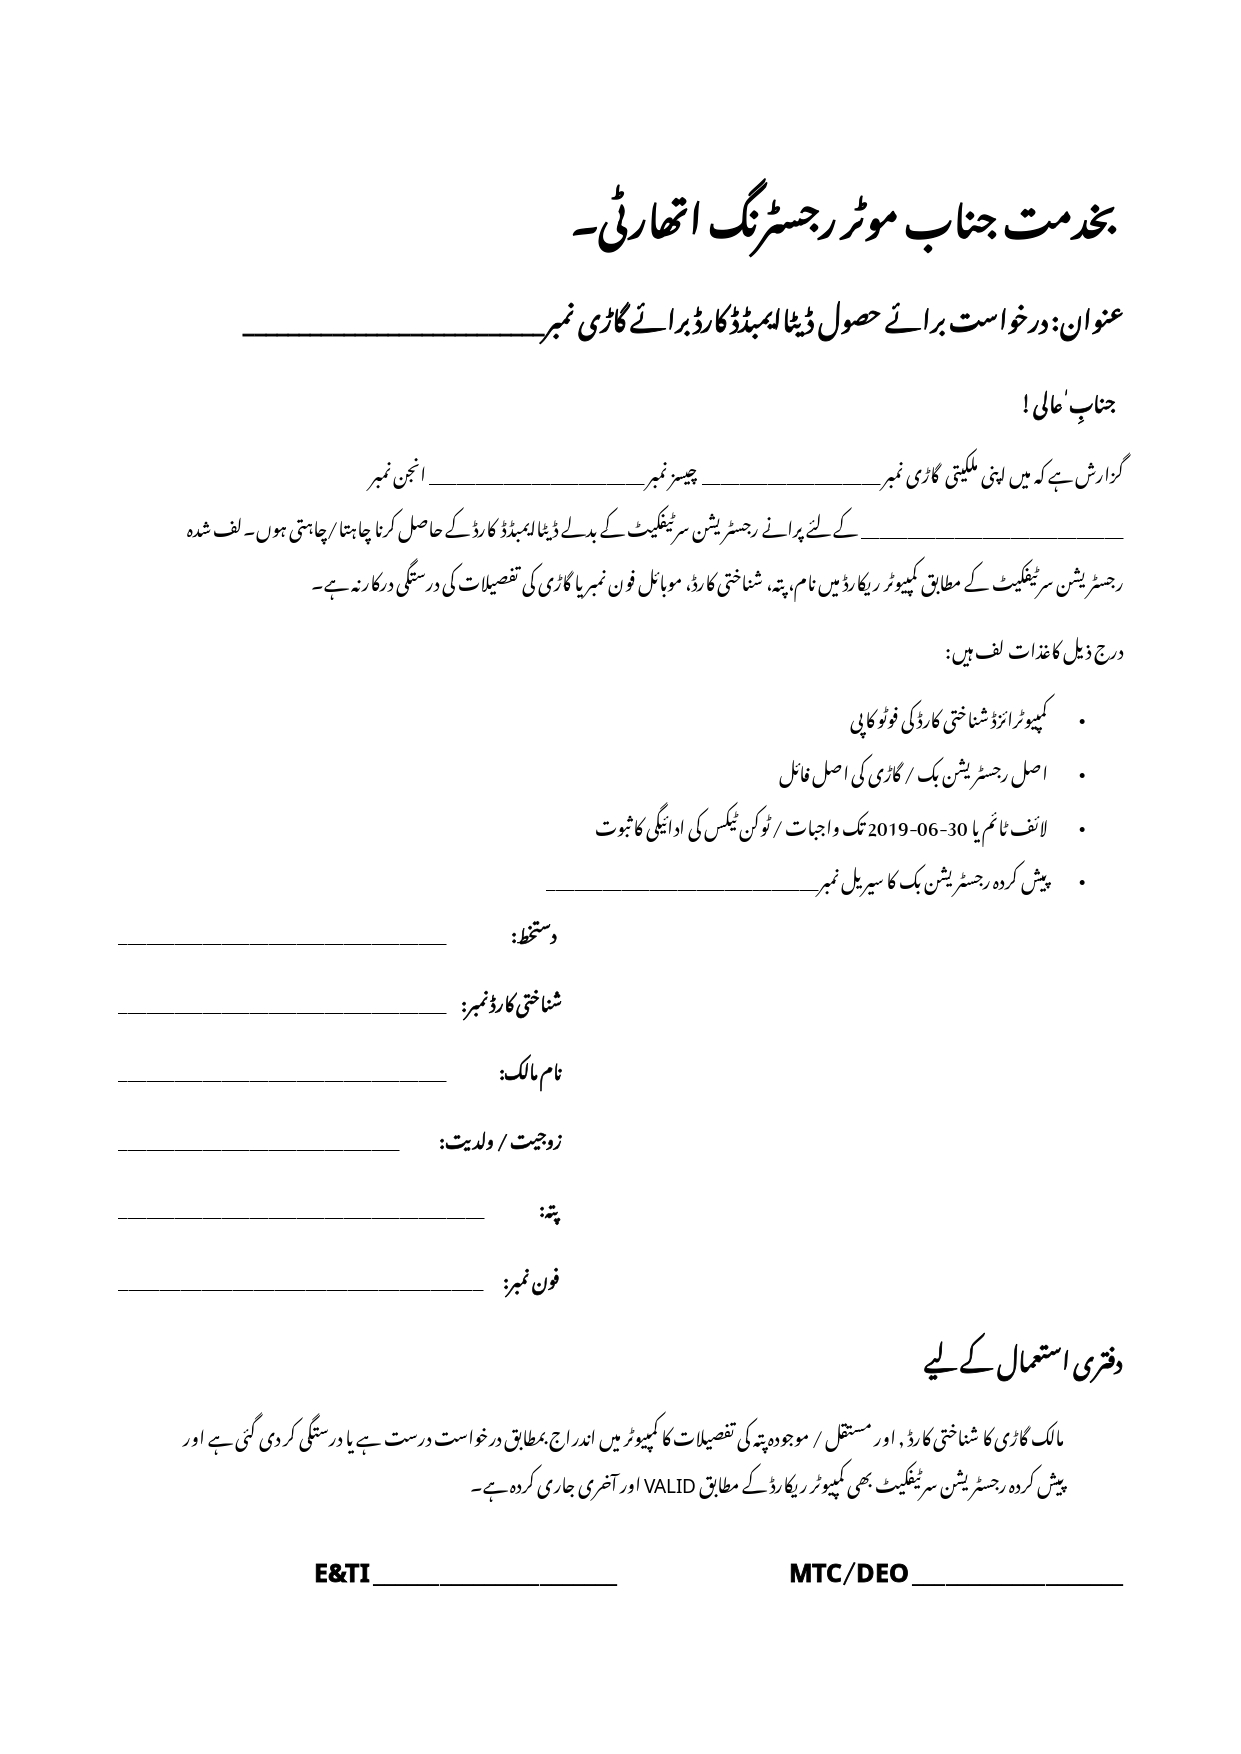
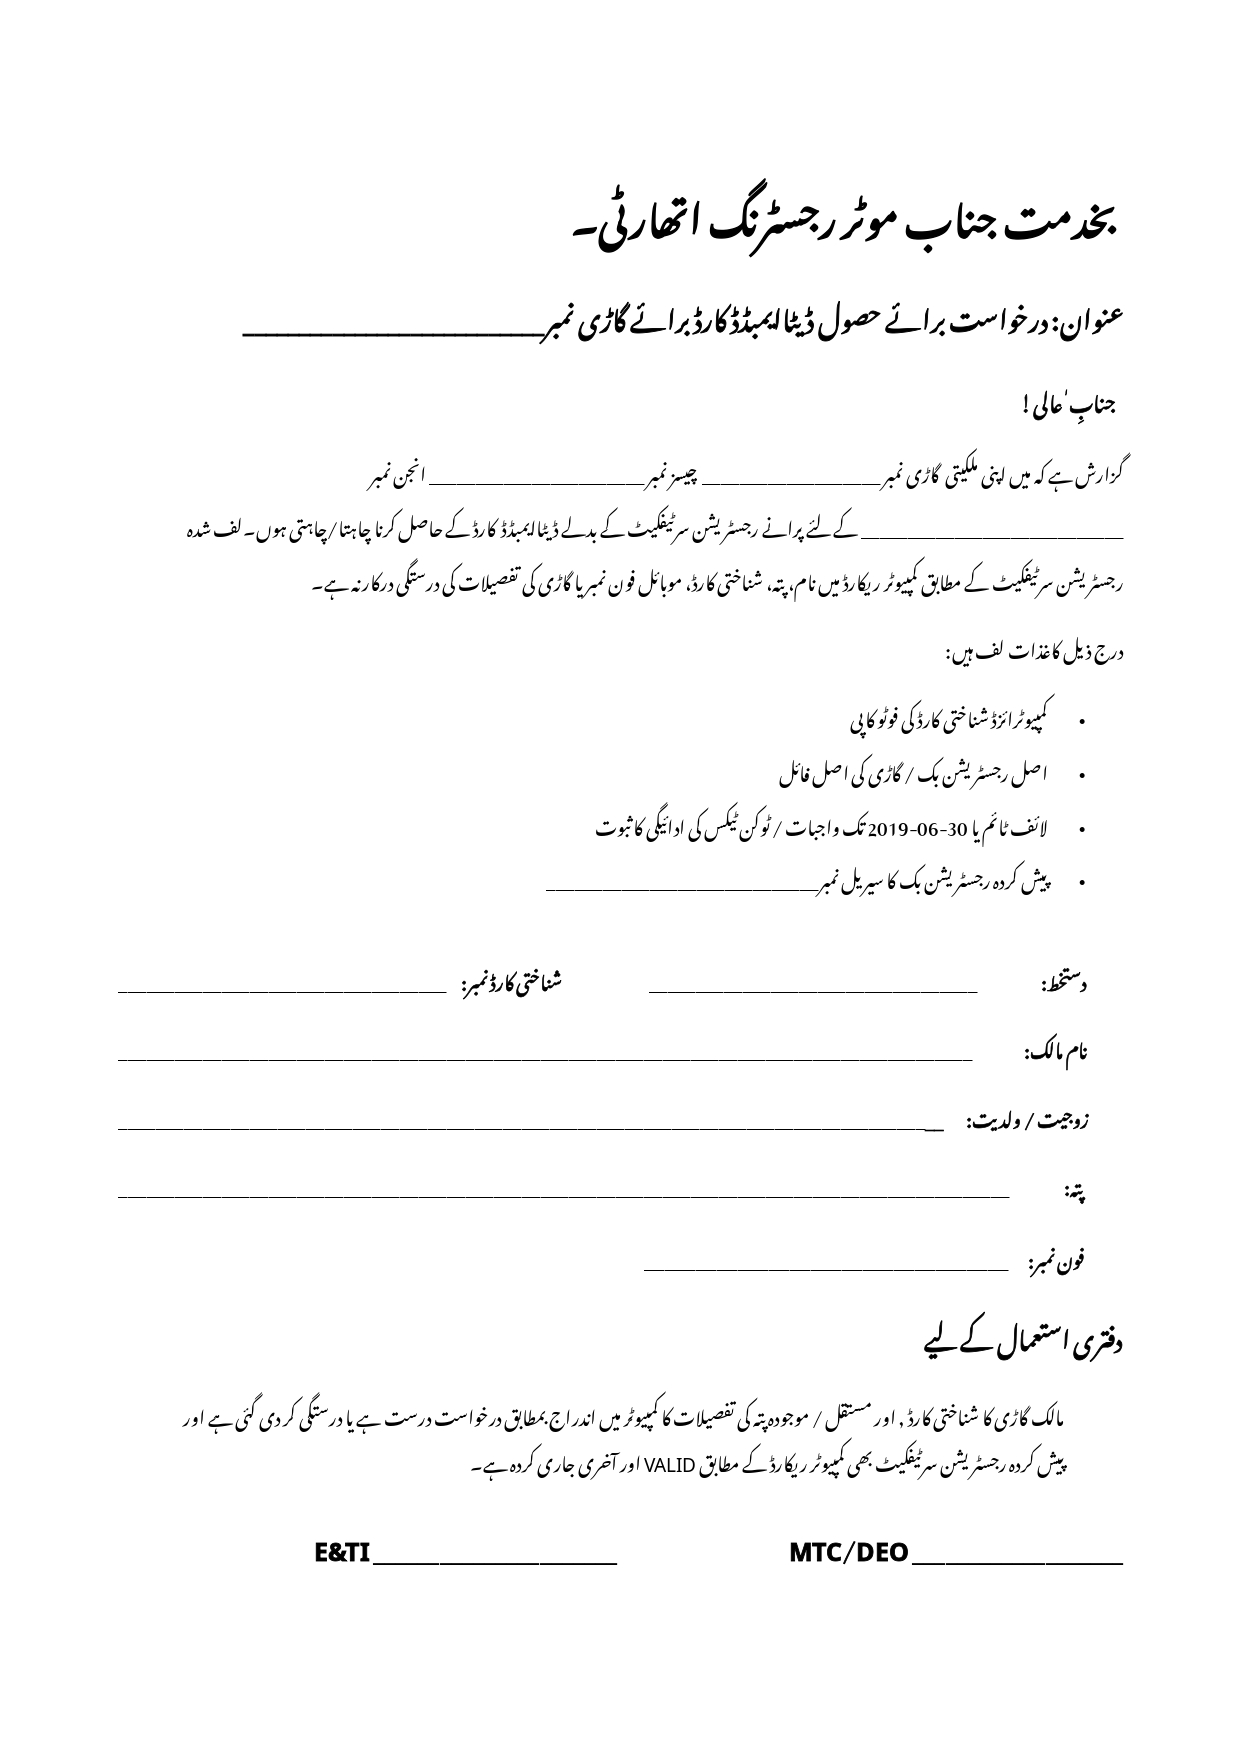
update forms fields

diff --git a/src/pages/FormToPage.jsx b/src/pages/FormToPage.jsx
@@ -10,18 +10,20 @@ const INITIAL_FIELDS = [
     { "id": 1781260595935, "x": 165.34375, "y": 405.40625, "w": 220, "h": 24, "label": "Field 6", "value": "" },
     { "id": 1781260601660, "x": 225.34375, "y": 500.40625, "w": 180, "h": 24, "label": "Field 7", "value": "" },
     { "id": 1781260604776, "x": 530.34375, "y": 500.40625, "w": 200, "h": 24, "label": "Field 8", "value": "" },
-    { "id": 1781260605902, "x": 225.34375, "y": 560.40625, "w": 180, "h": 24, "label": "Field 9", "value": "" },
-    { "id": 1781260608361, "x": 530.34375, "y": 560.40625, "w": 190, "h": 24, "label": "Field 10", "value": "" },
-    { "id": 1781260610501, "x": 220.34375, "y": 620.40625, "w": 190, "h": 24, "label": "Field 11", "value": "" },
-    { "id": 1781260612325, "x": 530.34375, "y": 620.40625, "w": 190, "h": 24, "label": "Field 12", "value": "" },
-    { "id": 1781260610501, "x": 235.34375, "y": 680.40625, "w": 160, "h": 24, "label": "Field 13", "value": "" },
-    { "id": 1781260612325, "x": 535.34375, "y": 680.40625, "w": 180, "h": 24, "label": "Field 14", "value": "" },
-    { "id": 1781260613934, "x": 180.34375, "y": 745.40625, "w": 230, "h": 24, "label": "Field 15", "value": "" },
-    { "id": 1781260615808, "x": 490.34375, "y": 745.40625, "w": 230, "h": 24, "label": "Field 16", "value": "" },
-    { "id": 1781260613934, "x": 115.34375, "y": 775.40625, "w": 285, "h": 24, "label": "Field 17", "value": "" },
-    { "id": 1781260615808, "x": 445.34375, "y": 775.40625, "w": 265, "h": 24, "label": "Field 18", "value": "" },
-    { "id": 1781260619054, "x": 190.34375, "y": 835.40625, "w": 210, "h": 24, "label": "Field 19", "value": "" },
-    { "id": 1781260623218, "x": 500.34375, "y": 835.40625, "w": 210, "h": 24, "label": "Field 20", "value": "" },
+    { "id": 1781260601660, "x": 115.34375, "y": 530.40625, "w": 280, "h": 24, "label": "Field 9", "value": "" },
+    { "id": 1781260604776, "x": 420.34375, "y": 530.40625, "w": 280, "h": 24, "label": "Field 10", "value": "" },
+    { "id": 1781260605902, "x": 225.34375, "y": 590.40625, "w": 180, "h": 24, "label": "Field 11", "value": "" },
+    { "id": 1781260608361, "x": 530.34375, "y": 590.40625, "w": 190, "h": 24, "label": "Field 12", "value": "" },
+    { "id": 1781260610501, "x": 220.34375, "y": 655.40625, "w": 190, "h": 24, "label": "Field 13", "value": "" },
+    { "id": 1781260612325, "x": 530.34375, "y": 655.40625, "w": 190, "h": 24, "label": "Field 14", "value": "" },
+    { "id": 1781260610501, "x": 235.34375, "y": 715.40625, "w": 160, "h": 24, "label": "Field 15", "value": "" },
+    { "id": 1781260612325, "x": 535.34375, "y": 715.40625, "w": 180, "h": 24, "label": "Field 16", "value": "" },
+    { "id": 1781260613934, "x": 180.34375, "y": 775.40625, "w": 230, "h": 24, "label": "Field 17", "value": "" },
+    { "id": 1781260615808, "x": 490.34375, "y": 775.40625, "w": 230, "h": 24, "label": "Field 18", "value": "" },
+    { "id": 1781260613934, "x": 115.34375, "y": 805.40625, "w": 285, "h": 24, "label": "Field 19", "value": "" },
+    { "id": 1781260615808, "x": 445.34375, "y": 805.40625, "w": 265, "h": 24, "label": "Field 20", "value": "" },
+    { "id": 1781260619054, "x": 190.34375, "y": 865.40625, "w": 210, "h": 24, "label": "Field 21", "value": "" },
+    { "id": 1781260623218, "x": 500.34375, "y": 865.40625, "w": 210, "h": 24, "label": "Field 22", "value": "" },
 ];
 
 export default function FormFPage() {

diff --git a/src/pages/FormSmartCardPage.jsx b/src/pages/FormSmartCardPage.jsx
@@ -8,14 +8,14 @@ const INITIAL_FIELDS = [
   { "id": 1781260581040, "x": 280.34375, "y": 302.40625, "w": 130, "h": 24, "label": "Field 4", "value": "" },
   { "id": 1781260586916, "x": 550.34375, "y": 336.40625, "w": 170, "h": 24, "label": "Field 5", "value": "" },
   { "id": 1781260595935, "x": 350.34375, "y": 562.40625, "w": 170, "h": 24, "label": "Field 6", "value": "" },
-  { "id": 1781260601660, "x": 70.34375, "y": 595.40625, "w": 220, "h": 24, "label": "Field 7", "value": "" },
-  { "id": 1781260604776, "x": 70.34375, "y": 640.40625, "w": 220, "h": 24, "label": "Field 8", "value": "" },
-  { "id": 1781260605902, "x": 70.34375, "y": 684.40625, "w": 220, "h": 24, "label": "Field 9", "value": "" },
-  { "id": 1781260608361, "x": 70.34375, "y": 728.40625, "w": 180, "h": 24, "label": "Field 10", "value": "" },
-  { "id": 1781260610501, "x": 70.34375, "y": 772.40625, "w": 250, "h": 24, "label": "Field 11", "value": "" },
-  { "id": 1781260612325, "x": 70.34375, "y": 818.40625, "w": 240, "h": 24, "label": "Field 12", "value": "" },
-  { "id": 1781260613934, "x": 250.34375, "y": 1006.40625, "w": 140, "h": 24, "label": "Field 13", "value": "" },
-  { "id": 1781260615808, "x": 590.34375, "y": 1006.40625, "w": 130, "h": 24, "label": "Field 14", "value": "" },
+  { "id": 1781260601660, "x": 410.34375, "y": 625.40625, "w": 220, "h": 24, "label": "Field 7", "value": "" },
+  { "id": 1781260604776, "x": 70.34375, "y": 625.40625, "w": 220, "h": 24, "label": "Field 8", "value": "" },
+  { "id": 1781260605902, "x": 80.34375, "y": 670.40625, "w": 540, "h": 24, "label": "Field 9", "value": "" },
+  { "id": 1781260608361, "x": 80.34375, "y": 715.40625, "w": 520, "h": 24, "label": "Field 10", "value": "" },
+  { "id": 1781260610501, "x": 80.34375, "y": 755.40625, "w": 560, "h": 24, "label": "Field 11", "value": "" },
+  { "id": 1781260612325, "x": 410.34375, "y": 805.40625, "w": 230, "h": 24, "label": "Field 12", "value": "" },
+  { "id": 1781260613934, "x": 250.34375, "y": 990.40625, "w": 140, "h": 24, "label": "Field 13", "value": "" },
+  { "id": 1781260615808, "x": 590.34375, "y": 990.40625, "w": 130, "h": 24, "label": "Field 14", "value": "" },
 ];
 
 export default function SmartCardFormPage() {
